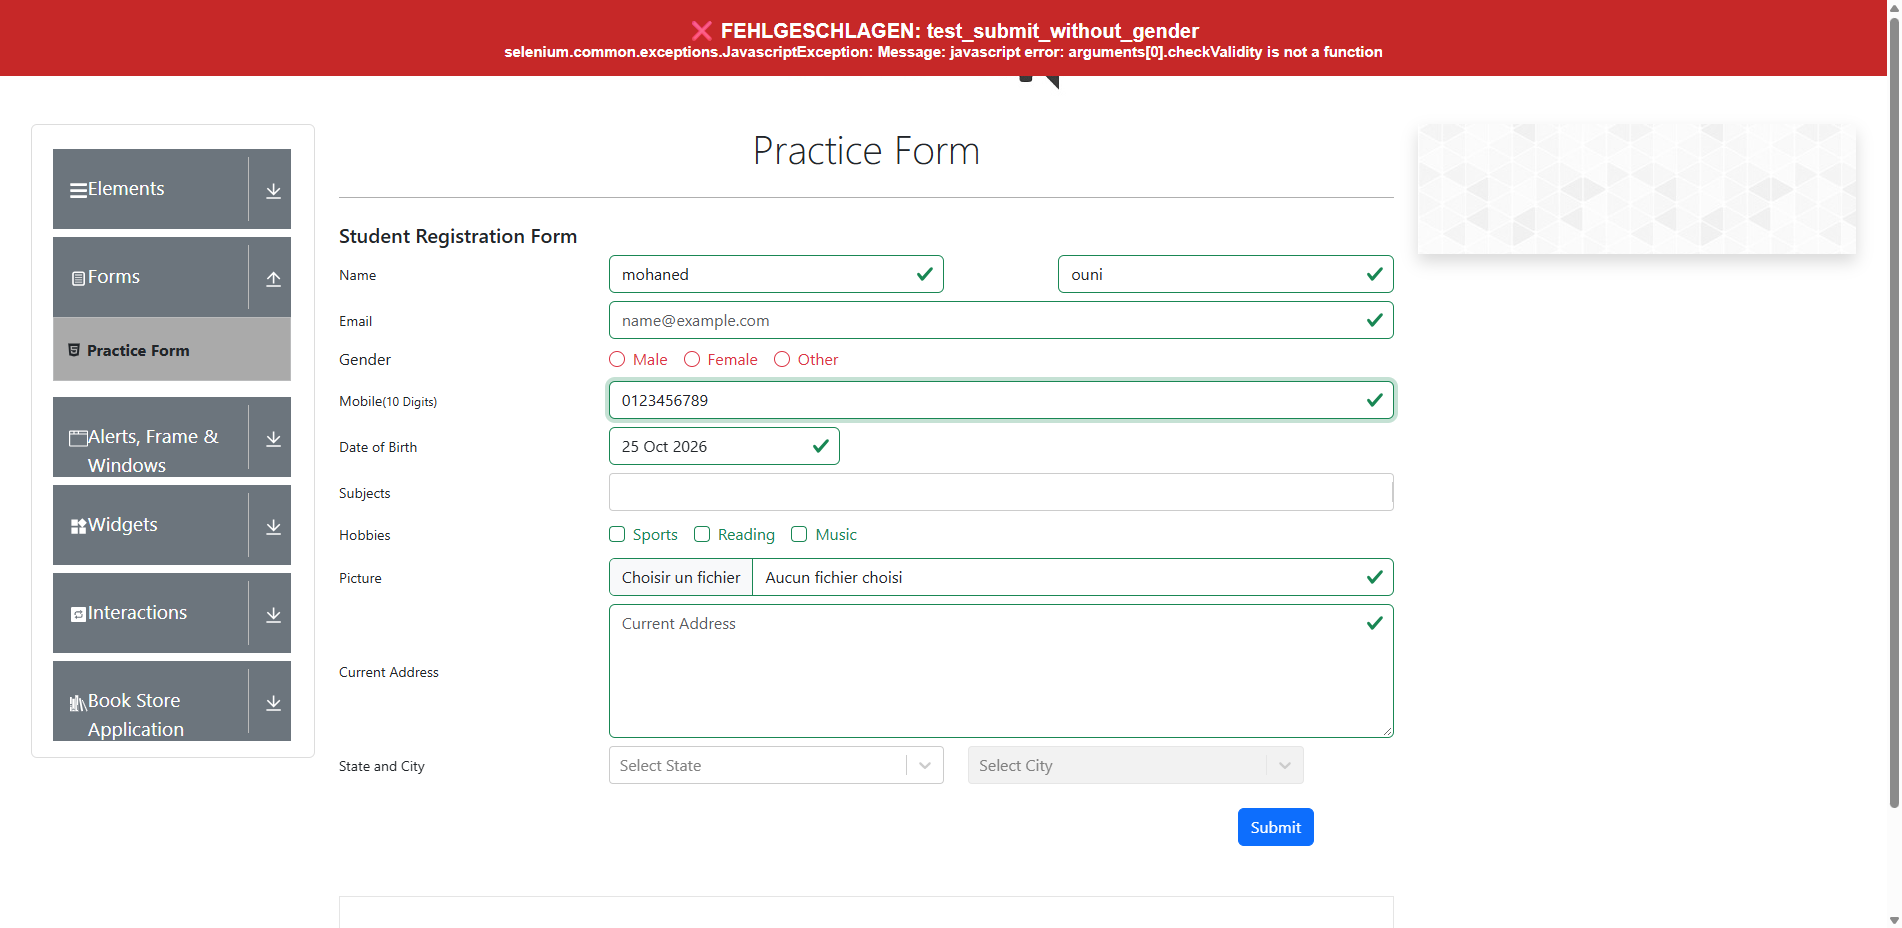
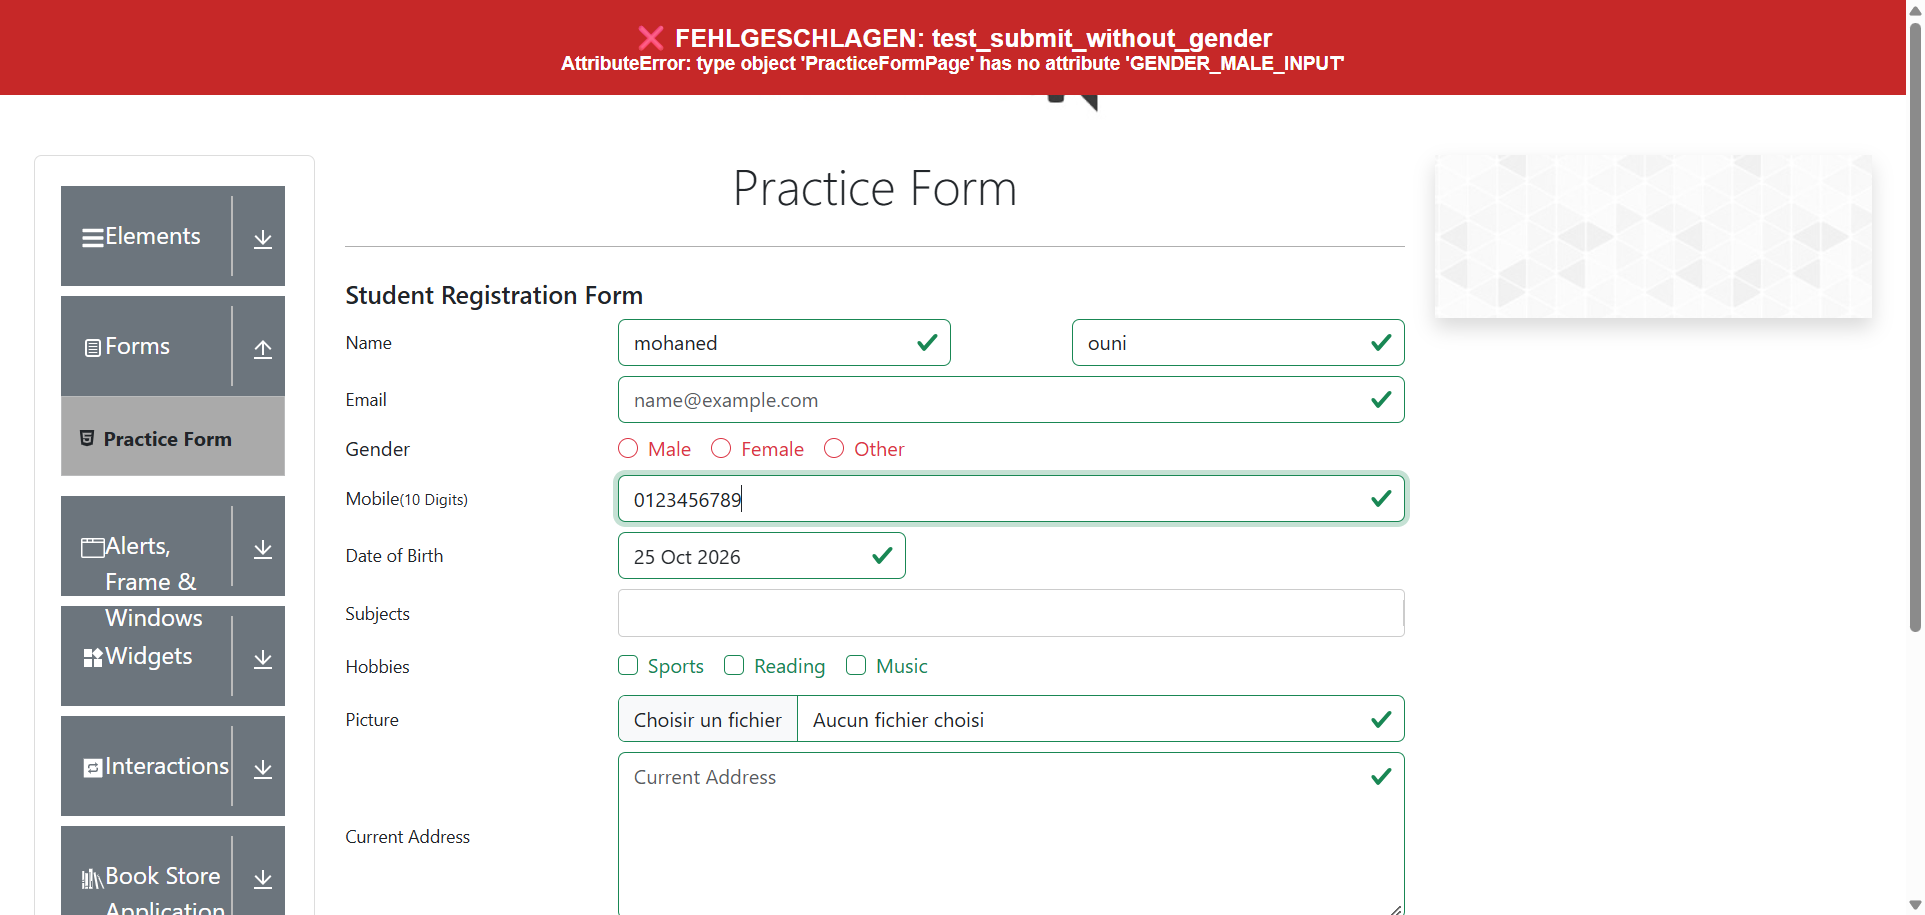
fehle von without generes lösen

diff --git a/tests/test_submit_invalid.py b/tests/test_submit_invalid.py
@@ -18,7 +18,7 @@ def test_submit_without_gender(form_page):
     form_page.type(P.MOBILE, "0123456789")
     form_page.submit()
 
-    assert not form_page.is_valid(P.GENDER_MALE), "Fehlendes Geschlecht wird als gültig akzeptiert"
+    
     assert not form_page.modal_is_shown(timeout=2), "Formular wurde ohne Geschlecht abgeschickt"
 
 
